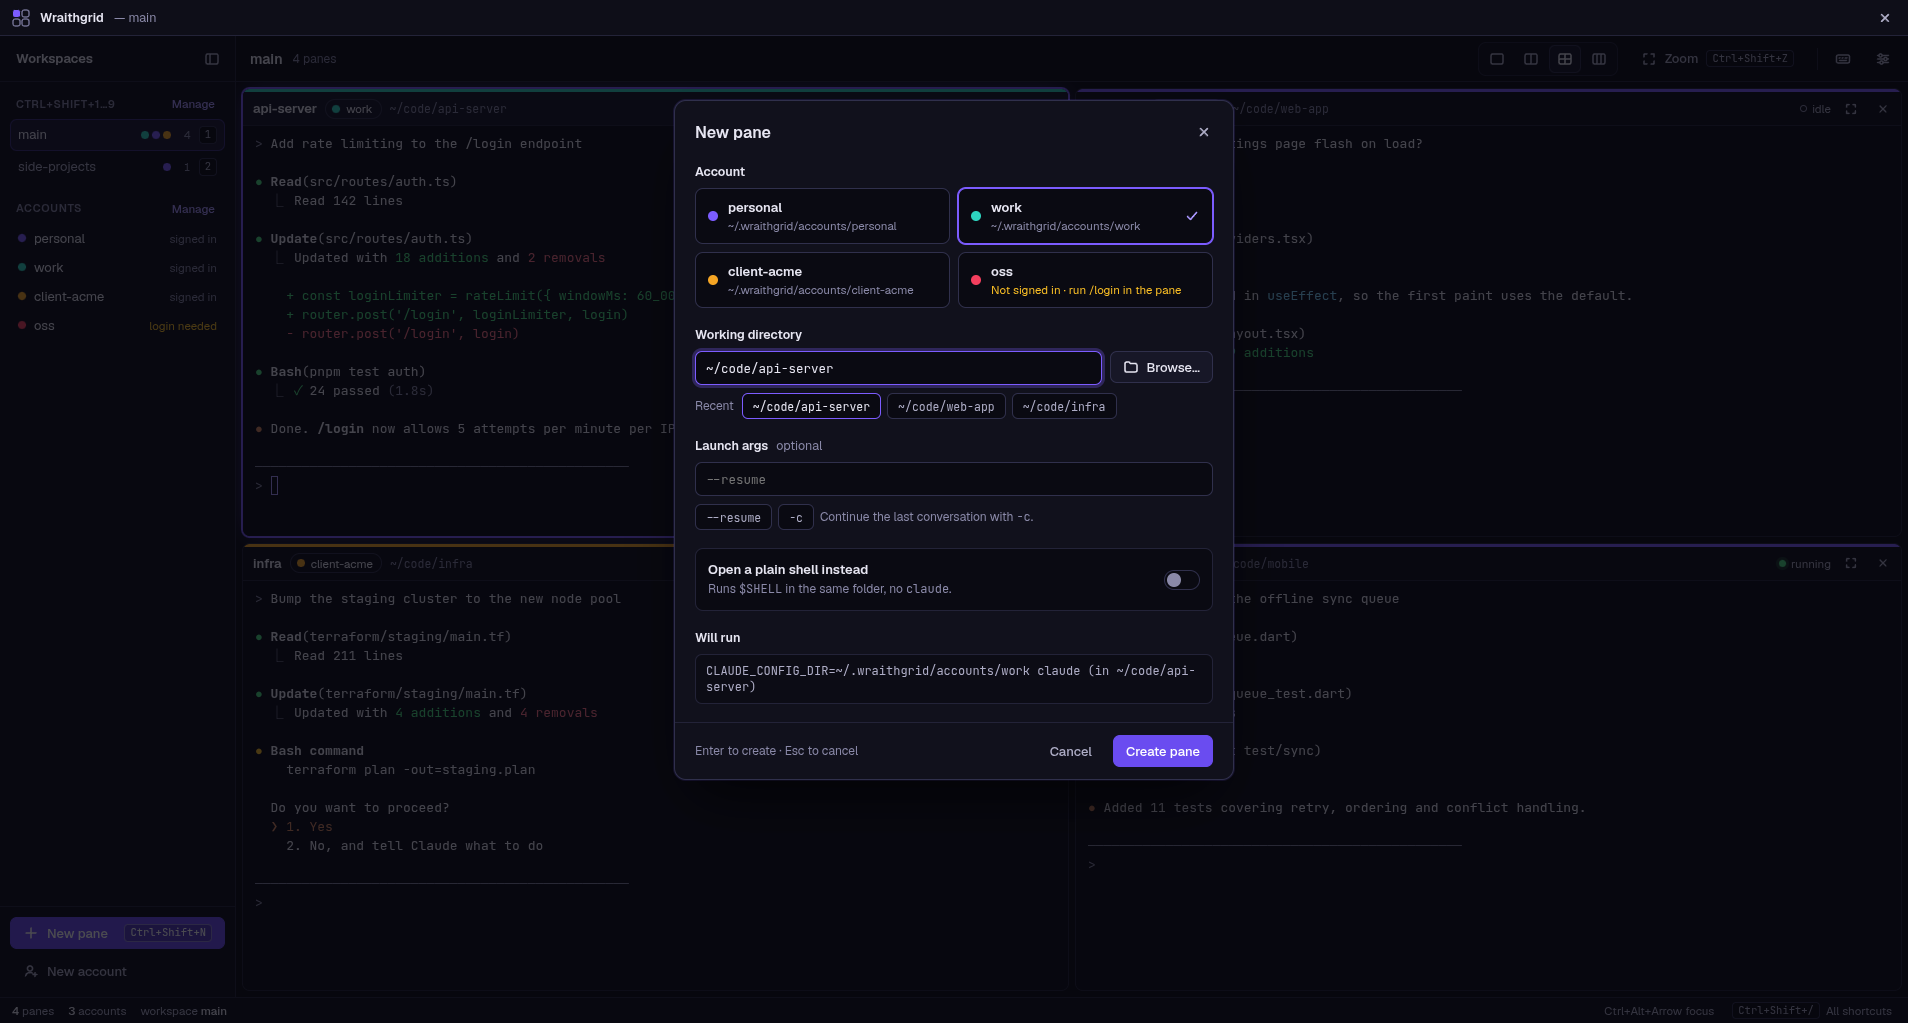
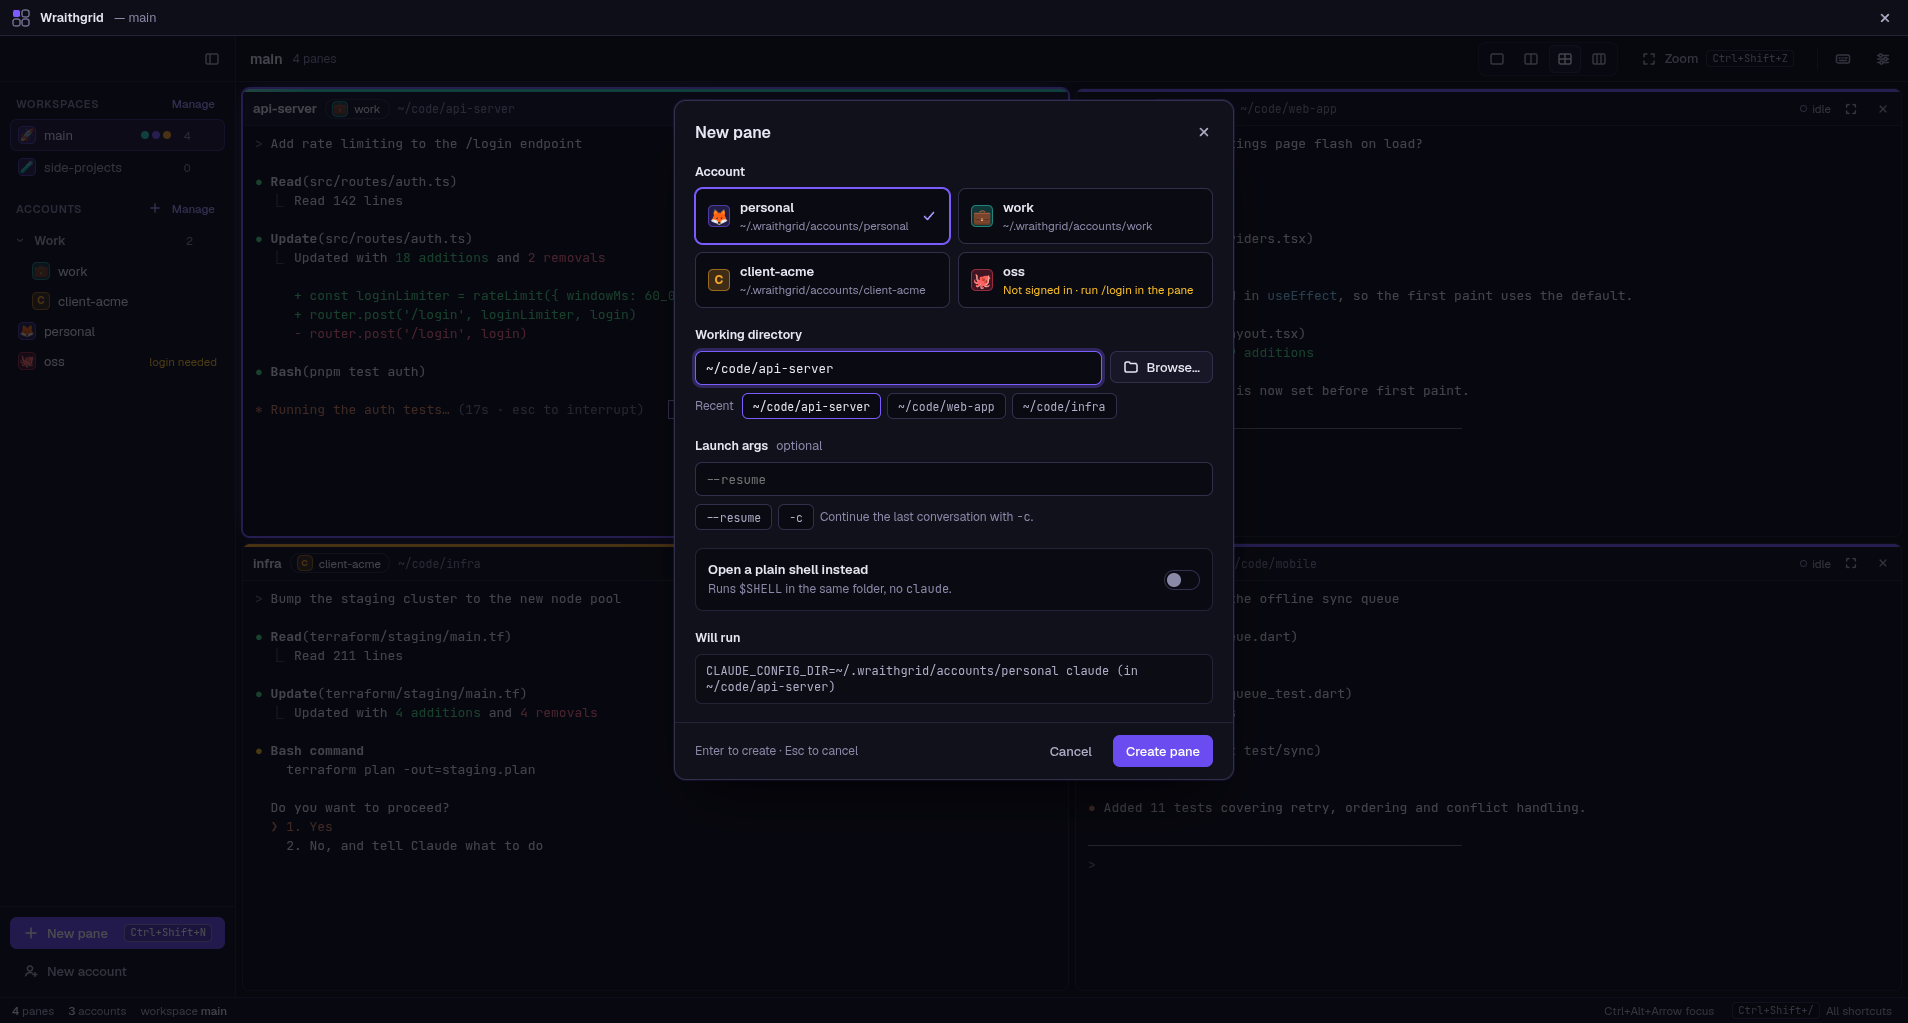
docs: refresh README screenshots and text for v1.2.0 features
New screenshots show sidebar folders, account and workspace icons, the
running spinner, the approval state and the shared ~/.claude setting.
The README now describes overall sharing as the default (it used to say
you pick a source account), adds folders and icons, the Shift+Enter and
font-size shortcuts, and the one-time release notification, and the
privacy note no longer calls sharing opt-in.

diff --git a/README.md b/README.md
@@ -19,7 +19,7 @@
 
 <picture>
   <source media="(prefers-color-scheme: light)" srcset="docs/screenshots/grid-light.png" />
-  <img src="docs/screenshots/grid-dark.png" alt="Wraithgrid showing four claude sessions in a 2×2 grid, each under a different account and project folder" />
+  <img src="docs/screenshots/grid-dark.png" alt="Wraithgrid showing four claude sessions in a 2×2 grid, each under a different account and project folder, with accounts grouped in a sidebar folder" />
 </picture>
 
 ## Why Wraithgrid
@@ -39,8 +39,10 @@ reads, copies or proxies anything inside those folders.
 | **Many accounts at once**     | Personal, work and client accounts run side by side, each with its own login, settings and history.          |
 | **Flexible layouts**          | 1, 2 side by side, 2×2 or 3 columns. Drag dividers to resize, drag headers to swap, zoom any pane.           |
 | **Workspaces**                | Keep separate sets of panes and switch between them with `Ctrl+Shift+1…9`.                                   |
-| **Live pane status**          | Each pane shows whether `claude` is running, idle or waiting for your approval.                              |
-| **Shared CLAUDE.md & skills** | Optionally link one `CLAUDE.md` and one `skills/` folder into every account.                                 |
+| **Folders & icons**           | Group accounts into sidebar folders by drag and drop, and give accounts and workspaces an emoji icon.        |
+| **Live pane status**          | Each pane shows whether `claude` is running (animated), idle or waiting for your approval.                   |
+| **Shared CLAUDE.md & skills** | Every account uses your `~/.claude` CLAUDE.md, settings, skills and plugins, or each keeps its own.          |
+| **Update alerts**             | A desktop notification tells you once when a new version is released.                                        |
 | **Survives restarts**         | Workspaces, layouts, accounts and folders come back on the next launch.                                      |
 | **Themes**                    | Dark, light or system, five accent colors, and terminal palettes such as Dracula, Nord and Tokyo Night.      |
 | **Native everywhere**         | Windows 10/11 and Linux (Ubuntu, Debian, Kali, Fedora, Arch) on X11 or Wayland, including Hyprland and sway. |
@@ -55,14 +57,14 @@ reads, copies or proxies anything inside those folders.
       <p align="center"><b>New pane</b>: pick an account, a folder and launch args</p>
     </td>
     <td width="50%">
-      <img src="docs/screenshots/accounts.png" alt="Accounts view listing four accounts with their config dirs and login state" />
-      <p align="center"><b>Accounts</b>: one <code>CLAUDE_CONFIG_DIR</code> per account</p>
+      <img src="docs/screenshots/accounts.png" alt="Accounts view listing four accounts with icons, their config dirs, shared ~/.claude and login state" />
+      <p align="center"><b>Accounts</b>: one <code>CLAUDE_CONFIG_DIR</code> per account, each with its own icon</p>
     </td>
   </tr>
   <tr>
     <td width="50%">
-      <img src="docs/screenshots/settings.png" alt="Appearance settings with theme, accent color, terminal palette and font" />
-      <p align="center"><b>Appearance</b>: theme, accent, terminal colors and font</p>
+      <img src="docs/screenshots/settings.png" alt="Settings with shared ~/.claude mode, theme, accent color, terminal palette and font" />
+      <p align="center"><b>Settings</b>: shared <code>~/.claude</code>, theme, accent, terminal colors and font</p>
     </td>
     <td width="50%">
       <img src="docs/screenshots/grid-light.png" alt="The pane grid in the light theme with a teal accent" />
@@ -144,17 +146,23 @@ Every release includes a `SHA256SUMS.txt` for verifying downloads.
      back.
 5. **Workspaces.** Keep separate sets of panes (the sidebar, or **Manage** to create, rename
    and delete them) and switch with `Ctrl+Shift+1…9`.
-6. **Share one CLAUDE.md and one set of skills.** Each account normally has its own
-   `CLAUDE.md` and `skills/`, because they live in its config dir. In **Settings → Shared
-   CLAUDE.md and skills**, pick the account that holds the real ones. Every other account then
-   gets links to them. Logins, settings and history stay separate per account.
-   - An account's own `CLAUDE.md` or `skills/` is not deleted: it is renamed to
-     `CLAUDE.md.wraithgrid-backup` / `skills.wraithgrid-backup`, and put back when you pick
-     **Off**.
+6. **One claude setup for every account.** By default (**Settings → Shared CLAUDE.md and
+   skills → Overall**) every account uses the `CLAUDE.md`, `settings.json`, `skills/`,
+   `plugins/`, `agents/` and `commands/` of your normal `~/.claude`, so your instructions and
+   installed plugins work in every account. Logins and history stay separate per account.
+   Pick **Each account its own** to turn it off.
+   - An account's own files are not deleted: they are renamed to `…wraithgrid-backup` and put
+     back when you switch to **Each account its own**.
    - Accounts added later are linked the first time a pane starts for them.
-   - On Windows, `skills` is a junction. `CLAUDE.md` is a symlink with Developer Mode on,
-     otherwise a hard link. Editors that save by replacing the file break a hard link, so edit
-     `CLAUDE.md` in the source account.
+   - A running `claude` reads these files when it starts: use **Restart claude panes** after
+     switching.
+   - On Windows, folders are junctions. Files are symlinks with Developer Mode on, otherwise
+     hard links. Editors that save by replacing the file break a hard link, so edit them in
+     `~/.claude`.
+7. **Folders and icons.** In the sidebar, **+** next to Accounts creates a folder (double-click
+   to rename). Drag an account onto a folder to move it in, or onto the list to take it out.
+   Click an account's badge on the Accounts page, or a workspace's badge in **Manage**, to
+   give it an emoji icon.
 
 When `claude` exits, the pane stays open with the exit code and last error line, and a
 **Restart** button. Quitting Wraithgrid ends every pane's processes. On the next launch your
@@ -171,6 +179,9 @@ where you left off.
 | Zoom pane / back to grid            | `Ctrl+Shift+Z`       |
 | Move focus left / up / right / down | `Ctrl+Alt+Arrow`     |
 | Switch workspace                    | `Ctrl+Shift+1` … `9` |
+| New line in claude                  | `Shift+Enter`        |
+| Terminal text bigger / smaller      | `Ctrl+=` / `Ctrl+-`  |
+| Reset terminal text size            | `Ctrl+0`             |
 | Copy / paste in a terminal          | `Ctrl+Shift+C` / `V` |
 | All shortcuts                       | `Ctrl+Shift+/`       |
 | Close a dialog                      | `Esc`                |
@@ -188,10 +199,11 @@ never saves terminal content.
 
 - the `claude` binary: auto-detected from `PATH`, with an optional override
 - the default account and the default working directory
-- shared `CLAUDE.md` and skills
+- sharing `~/.claude` (CLAUDE.md, settings, skills, plugins) with every account, or not
 - theme (dark, light or system), accent color and terminal color palette
 - the terminal font and size
-- update checks against GitHub releases (nothing is downloaded or installed for you)
+- update checks against GitHub releases, with a desktop notification once per new version
+  (nothing is downloaded or installed for you)
 
 ## Privacy and security
 
@@ -199,9 +211,9 @@ never saves terminal content.
   (http and https only), and the optional release check, which you can turn off.
 - **Sandboxed renderer.** The UI runs sandboxed with context isolation. It reaches the system
   only through a fixed, validated IPC surface.
-- **Account folders are off-limits.** Sharing CLAUDE.md and skills is opt-in. It is the only
-  time Wraithgrid writes into account config dirs, and it only places links and renames what
-  was in the way. It never reads the files.
+- **Account folders are off-limits.** Sharing `~/.claude` is the only time Wraithgrid writes
+  into account config dirs, and it only places links and renames what was in the way. It never
+  reads the files. Logins (`.credentials.json`, `.claude.json`) are never linked.
 - **Guarded deletes.** Deleting an account's config dir is opt-in, needs confirmation, and only
   works on the folder that account points to inside your home directory.
 

diff --git a/CHANGELOG.md b/CHANGELOG.md
@@ -2,6 +2,9 @@
 
 ## 2026-09-30
 
+- [release] v1.2.0 (files: package.json)
+- [docs] Refresh README screenshots and text for sharing, folders, icons, shortcuts and update alerts (files: README.md, docs/screenshots/)
+- [ui] Shorter per-account sharing note; font options stay on one row (files: src/renderer/components/AccountsView.tsx, src/renderer/styles/base.css)
 - [ui] Clean-up pass: letter/emoji badges (`Avatar`) for every account and workspace, one header per sidebar section, workspace shortcut digits on hover, only "login needed" shown as account status, balanced Accounts table, wrapped claude version, untruncated font names, shorter sharing copy; icon picker returns focus after a pick (files: src/renderer/components/{AccountIcon,IconPicker,Sidebar,SidebarAccounts,AccountsView,SettingsView,NewPaneDialog,PaneHeader}.tsx, src/renderer/styles/base.css)
 - [workspaces] Custom emoji icon per workspace, set from the workspace switcher (files: src/shared/{types,schema}.ts, src/renderer/app/store.ts, src/renderer/components/WorkspaceSwitcher.tsx, tests/e2e/account-folders.spec.ts)
 - [updates] A new release raises an OS notification once per version (launch check + every 6 h while open, packaged builds only); click opens the release page (files: src/main/update-notify.ts, src/main/index.ts, src/main/ipc.ts, tests/unit/update-notify.test.ts)
